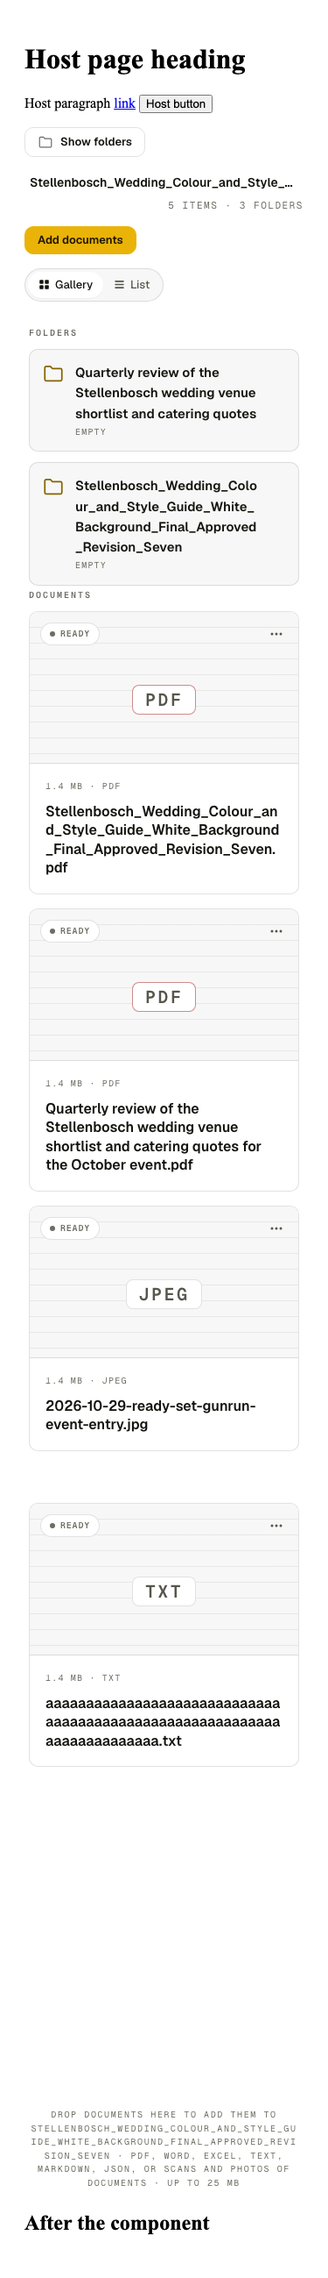
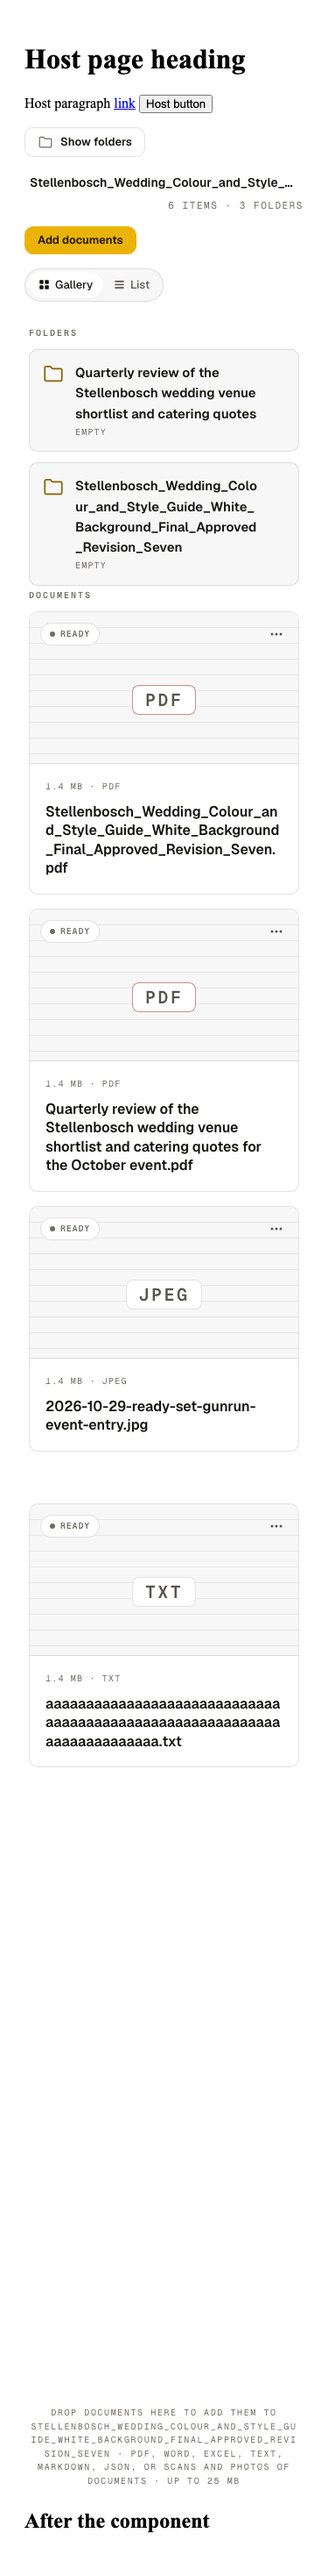
fix: long names follow Shelf web's rules; list rows are measured
Replace the clamp/ellipsis/anywhere guesses with web's own rules: break-word
without a clamp on names, min-width: 0 on containers, crumbs nowrap + ellipsis.
Deviations, each because the SDK name is a <button> (atomic inline, break-word
does not shrink it): overflow-wrap: anywhere on the card link and list name text
only; crumb ellipsis on every crumb row (web: document page only); the document
Back button ellipsizes. Wrapping list names make row heights vary, so
VirtualTable measures its rows and the anchor offset instead of assuming 57px.
Adds harness/shelf-compare.mjs (real Shelf web beside the SDK, mocked api) and
PERF_LONGNAMES=1 for perf.mjs.

diff --git a/src/styles/extras.css b/src/styles/extras.css
@@ -73,15 +73,8 @@
 .shelf-sdk .shelf-sdk__item-list-fixed th:nth-child(5) {
   width: 56px;
 }
-.shelf-sdk .shelf-sdk__item-list-fixed td {
-  overflow: hidden;
-  text-overflow: ellipsis;
-}
-.shelf-sdk .shelf-sdk__item-list-fixed .shelf-sdk__item-name-text {
-  overflow: hidden;
-  text-overflow: ellipsis;
-  white-space: nowrap;
-}
+/* Names wrap, as web's do (.item-name-text: overflow-wrap: break-word). Row heights vary, so the virtual table measures
+   its rows (VirtualTable in ShelfFolder.tsx) instead of assuming one height. */
 
 /* 0.4: the item/folder count sat on the very top edge of the header row (the aside is a flex-start item of a
    30px row), so an embed whose container has no padding clipped it by 1-2px. Centre it on the row, as the
@@ -91,82 +84,35 @@
   line-height: 1.4;
 }
 
-/* 0.4: long names. Web's `overflow-wrap: break-word` does not move a name's min-content width, and a <button> does not
-   inherit it, so an unbroken name (Some_Long_File_Name.pdf has no break opportunity) made one unbroken line that
-   widened its column and ran out of the card. Names break anywhere when they must (`anywhere`, which does count toward
-   min-content), every grid/flex item that holds one may shrink (min-width: 0), and card names stop at 3 lines so one
-   very long name cannot make every card in the row (they share one measured height) tall. Folder tiles are not
-   clamped: they are not virtualised, and a clamp box shifts their text by sub-pixels (7 pixels of the baseline PNG). */
-.shelf-sdk .shelf-sdk__file-grid > *,
-.shelf-sdk .shelf-sdk__folder-grid > *,
-.shelf-sdk .shelf-sdk__file-card,
-.shelf-sdk .shelf-sdk__folder-tile,
-.shelf-sdk .shelf-sdk__file-card-body,
-.shelf-sdk .shelf-sdk__folder-tile-main,
-.shelf-sdk .shelf-sdk__folder-tile-text {
-  min-width: 0;
-}
-.shelf-sdk .shelf-sdk__file-card-name,
+/* 0.4: long names, the same rules as Shelf web (view.css carries web's own: overflow-wrap: break-word on
+   .file-card-name / .folder-tile-name / .item-name-text, min-width: 0 on the flex/grid containers, nowrap + ellipsis
+   on .folder-tree-name). The one thing web does not need and the SDK does: web's name is an <a>, a real inline box
+   that wraps inside its block. The SDK's is a <button> (navigation stays inside the embed), which Chromium lays out
+   as an atomic inline: its width is its min-content, and `break-word` does not count toward min-content, so an
+   unbroken name stays one 800px line. `anywhere` does count, so it is set on the button's text only (card link, list name). */
 .shelf-sdk .shelf-sdk__file-card-link,
-.shelf-sdk .shelf-sdk__folder-tile-name,
-.shelf-sdk .shelf-sdk__folder-tile-main,
-.shelf-sdk .shelf-sdk__item-name-text,
-.shelf-sdk .shelf-sdk__preview-facts dd,
-.shelf-sdk .shelf-sdk__studio-actions > span,
-.shelf-sdk .shelf-sdk__sync-actions .shelf-sdk__card-meta {
-  min-width: 0;
-  max-width: 100%;
+.shelf-sdk .shelf-sdk__item-name-text {
   overflow-wrap: anywhere;
 }
-.shelf-sdk .shelf-sdk__file-card-name {
-  display: -webkit-box;
-  -webkit-box-orient: vertical;
-  -webkit-line-clamp: 3;
-  line-clamp: 3;
-  overflow: hidden;
-}
-.shelf-sdk .shelf-sdk__folder-tile-main {
-  text-align: left;
-}
-.shelf-sdk .shelf-sdk__preview-facts {
-  grid-template-columns: auto minmax(0, 1fr);
-}
-.shelf-sdk .shelf-sdk__studio-actions > span {
-  flex: 1 1 12rem;
-}
-.shelf-sdk .shelf-sdk__studio-actions .shelf-sdk__text-input {
-  min-width: 0;
-  max-width: 100%;
-}
-.shelf-sdk .shelf-sdk__sync-actions {
-  min-width: 0;
-}
-/* List rows have a fixed height (the table virtualiser does not measure them), so a name stays on one line with an
-   ellipsis. The flex name button and its text may shrink for the ellipsis to apply. */
-.shelf-sdk .shelf-sdk__item-list-fixed .shelf-sdk__item-name {
-  max-width: 100%;
-}
-.shelf-sdk .shelf-sdk__item-list-fixed .shelf-sdk__item-name > span:last-child {
-  min-width: 0;
-}
-/* Breadcrumbs: each crumb keeps to one line and ends in an ellipsis; the list wraps, so two long crumbs stack. */
+/* Breadcrumbs do not wrap a name; they ellipsize it: web's own rule (.doc-nav-row .breadcrumb, with li { display:
+   flex; min-width: 0 }), applied to every crumb row. Web applies it only on the document page; on the shelf page its
+   crumbs keep `display: inline-block` and an unbroken folder name overflows the column at 375px (seen in the real-Shelf
+   comparison, docs/screenshots/wrap-compare-crumbs-375.png). Deviation: the SDK does not leave that overflow in. */
 .shelf-sdk .shelf-sdk__breadcrumbs li {
   display: flex;
   align-items: center;
   min-width: 0;
-  max-width: 100%;
 }
 .shelf-sdk .shelf-sdk__breadcrumbs li + li::before {
   flex: none;
 }
 .shelf-sdk .shelf-sdk__breadcrumb {
-  min-width: 0;
-  max-width: 100%;
   overflow: hidden;
   text-overflow: ellipsis;
   white-space: nowrap;
 }
-/* Messages that quote a name: the drop hint ("...add them to <folder>"), upload errors, callouts, empty states. */
+/* Messages that quote a name ("Drop files to add them to <folder>", errors): block text in a definite-width column, so
+   web's own `break-word` is enough. */
 .shelf-sdk .shelf-sdk__dropzone-limits,
 .shelf-sdk .shelf-sdk__callout,
 .shelf-sdk .shelf-sdk__notice,
@@ -175,14 +121,14 @@
 .shelf-sdk .shelf-sdk__empty-title,
 .shelf-sdk .shelf-sdk__folder-tree-empty,
 .shelf-sdk .shelf-sdk__folder-tree-status {
-  min-width: 0;
-  overflow-wrap: anywhere;
+  overflow-wrap: break-word;
 }
-/* Document header: "Back to <folder>" quotes a folder name. It ends in an ellipsis instead of taking the title's column
-   (an unbroken name gave the title ~0px and one letter per line). On narrow embeds the actions drop under the title. */
-.shelf-sdk .shelf-sdk__doc-title .shelf-sdk__section-title {
-  overflow-wrap: anywhere;
+/* The preview facts' value column may shrink (min-width: 0 on a grid track, as web does on its grid containers). */
+.shelf-sdk .shelf-sdk__preview-facts {
+  grid-template-columns: auto minmax(0, 1fr);
 }
+/* Document header: "Back to <folder>" quotes a folder name. As web's crumbs do, it ends in an ellipsis instead of
+   taking the title's column (an unbroken name left the title ~0px wide). Narrow embeds drop the actions under the title. */
 .shelf-sdk .shelf-sdk__doc-actions {
   min-width: 0;
   max-width: 18rem;

diff --git a/test/names.test.tsx b/test/names.test.tsx
@@ -62,26 +62,41 @@ async function vi_waitFor<T extends Element>(get: () => T | null): Promise<T> {
   throw new Error('element never rendered');
 }
 
-describe('long names: CSS rules', () => {
-  const breaks = [
-    '.shelf-sdk__file-card-name', '.shelf-sdk__file-card-link', '.shelf-sdk__folder-tile-name', '.shelf-sdk__item-name-text',
-    '.shelf-sdk__preview-facts dd', '.shelf-sdk__studio-actions > span', '.shelf-sdk__dropzone-limits', '.shelf-sdk__callout',
-    '.shelf-sdk__sync-actions .shelf-sdk__card-meta', '.shelf-sdk__doc-title .shelf-sdk__section-title',
-  ];
-  it.each(breaks)('%s may break anywhere', (sel) => {
-    expect(decls(sel)).toMatch(/overflow-wrap:\s*anywhere/);
-  });
-  it.each(['.shelf-sdk__file-grid > *', '.shelf-sdk__folder-grid > *', '.shelf-sdk__file-card', '.shelf-sdk__folder-tile', '.shelf-sdk__file-card-body', '.shelf-sdk__folder-tile-main', '.shelf-sdk__folder-tile-text'])(
-    'grid/flex child %s can shrink', (sel) => {
-      expect(decls(sel)).toMatch(/min-width:\s*0/);
+describe('long names: CSS rules (the same ones as Shelf web)', () => {
+  // view.css is generated from web's global.css (scripts/sync-web-css.mjs), extras.css is the SDK's own.
+  const view = readFileSync(resolve(process.cwd(), 'src/styles/view.css'), 'utf8').replace(/\/\*[\s\S]*?\*\//g, '');
+  const viewDecls = (sel: string): string =>
+    [...view.matchAll(/([^{}]+)\{([^}]*)\}/g)].filter((m) => m[1]!.split(',').some((x) => x.trim() === `.shelf-sdk ${sel}`)).map((m) => m[2]).join('\n');
+  const all = (sel: string) => `${viewDecls(sel)}\n${decls(sel)}`;
+
+  it.each(['.shelf-sdk__file-card-name', '.shelf-sdk__folder-tile-name', '.shelf-sdk__item-name-text', '.shelf-sdk__doc-title .shelf-sdk__section-title', '.shelf-sdk__preview-facts dd'])(
+    'names break with overflow-wrap: break-word, as web does: %s', (sel) => {
+      expect(viewDecls(sel)).toMatch(/overflow-wrap:\s*break-word/);
     });
-  it('card names stop at 3 lines', () => {
-    expect(decls('.shelf-sdk__file-card-name')).toMatch(/-webkit-line-clamp:\s*3/);
+  it.each(['.shelf-sdk__folder-tile-main', '.shelf-sdk__folder-tile-text', '.shelf-sdk__item-name'])('flex container %s can shrink (min-width: 0)', (sel) => {
+    expect(viewDecls(sel)).toMatch(/min-width:\s*0/);
   });
-  it('crumbs and list names stay on one line with an ellipsis', () => {
-    for (const s of ['.shelf-sdk__breadcrumb', '.shelf-sdk__item-list-fixed .shelf-sdk__item-name-text']) {
-      expect(decls(s)).toMatch(/text-overflow:\s*ellipsis/);
-      expect(decls(s)).toMatch(/white-space:\s*nowrap/);
-    }
+  it('no name is clamped to a number of lines', () => {
+    expect(css).not.toMatch(/line-clamp/);
+    expect(view).not.toMatch(/line-clamp/);
+  });
+  it('the buttons that carry a name break anywhere (a button is an atomic inline: break-word does not shrink it)', () => {
+    for (const sel of ['.shelf-sdk__file-card-link', '.shelf-sdk__item-name-text']) expect(decls(sel)).toMatch(/overflow-wrap:\s*anywhere/);
+  });
+  it('list names wrap: no ellipsis or nowrap on the name cell', () => {
+    expect(decls('.shelf-sdk__item-list-fixed td')).not.toMatch(/text-overflow/);
+    expect(all('.shelf-sdk__item-name-text')).not.toMatch(/white-space:\s*nowrap/);
+  });
+  it('crumbs do not wrap a name: nowrap + ellipsis, items may shrink', () => {
+    expect(decls('.shelf-sdk__breadcrumb')).toMatch(/text-overflow:\s*ellipsis/);
+    expect(decls('.shelf-sdk__breadcrumb')).toMatch(/white-space:\s*nowrap/);
+    expect(decls('.shelf-sdk__breadcrumbs li')).toMatch(/min-width:\s*0/);
+  });
+  it('folder tree names are one line with an ellipsis', () => {
+    expect(viewDecls('.shelf-sdk__folder-tree-name')).toMatch(/text-overflow:\s*ellipsis/);
+    expect(viewDecls('.shelf-sdk__folder-tree-name')).toMatch(/white-space:\s*nowrap/);
+  });
+  it('messages that quote a name break', () => {
+    expect(decls('.shelf-sdk__dropzone-limits')).toMatch(/overflow-wrap:\s*break-word/);
   });
 });

diff --git a/src/react/ShelfFolder.tsx b/src/react/ShelfFolder.tsx
@@ -1,4 +1,4 @@
-import { lazy, Suspense, useCallback, useEffect, useMemo, useReducer, useRef, useState } from 'react';
+import { lazy, Suspense, useCallback, useEffect, useLayoutEffect, useMemo, useReducer, useRef, useState } from 'react';
 import type { ComponentType, DragEvent, ReactNode } from 'react';
 import { deepEqual } from '../cache/reconcile';
 import { createShelfClient, isAuthLost, isOfflineError, ShelfError } from '../client';
@@ -296,7 +296,38 @@ function VirtualTable({ items, folderRows, folderCount, loader, selectedId, canW
   // The scroll sentinel sits just above the table (not inside its overflow wrapper, which would be mistaken
   // for the scroller) and is nudged down past the header and folder rows, so row offsets count from the first document.
   const anchor = useRef<HTMLDivElement>(null);
-  const { rows, totalSize } = useVirtualRows({ count: items.length, rowHeight: TABLE_ROW_HEIGHT, scrollRef: anchor, onNearEnd, overscan: 6 });
+  const tbody = useRef<HTMLTableSectionElement>(null);
+  // Where the documents start below the anchor: header plus folder rows. Names wrap, so folder rows differ in height;
+  // the estimate holds until the first layout reads the real offset.
+  const [docsTop, setDocsTop] = useState(TABLE_HEAD_HEIGHT + folderCount * TABLE_ROW_HEIGHT);
+  const { rows, totalSize, measureElement } = useVirtualRows({ count: items.length, rowHeight: TABLE_ROW_HEIGHT, scrollRef: anchor, onNearEnd, overscan: 6, remeasureKey: docsTop });
+  // Document rows have varying heights (a long name wraps), so each drawn row is measured, and the table is watched
+  // for changes in the height above the documents (the header and the folder rows).
+  useLayoutEffect(() => {
+    const body = tbody.current;
+    if (!body) return;
+    const docRows = Array.from(body.children).filter((tr) => tr.getAttribute('aria-hidden') !== 'true').slice(folderCount);
+    docRows.forEach((tr, i) => {
+      const r = rows[i];
+      if (!r) return;
+      // Once per row: after that its ResizeObserver reports changes (measuring again on every render would loop).
+      if (tr.getAttribute('data-index') === String(r.index)) return;
+      tr.setAttribute('data-index', String(r.index));
+      measureElement?.(tr);
+    });
+    const first = body.children[folderCount] as HTMLElement | undefined;
+    if (first) setDocsTop((cur) => (Math.abs(cur - first.offsetTop) >= 1 ? first.offsetTop : cur));
+  });
+  useEffect(() => {
+    const table = tbody.current?.closest('table');
+    if (!table || typeof ResizeObserver === 'undefined') return;
+    const ro = new ResizeObserver(() => {
+      const first = tbody.current?.children[folderCount] as HTMLElement | undefined;
+      if (first) setDocsTop((cur) => (Math.abs(cur - first.offsetTop) >= 1 ? first.offsetTop : cur));
+    });
+    ro.observe(table);
+    return () => ro.disconnect();
+  }, [folderCount]);
   const top = rows.length ? rows[0]!.start : 0;
   const bottom = rows.length ? Math.max(0, totalSize - (rows[rows.length - 1]!.start + rows[rows.length - 1]!.size)) : totalSize;
   const spacer = (h: number, key: string) =>
@@ -307,7 +338,7 @@ function VirtualTable({ items, folderRows, folderCount, loader, selectedId, canW
     ) : null;
   return (
     <>
-      <div ref={anchor} aria-hidden="true" style={{ height: 0, position: 'relative', top: TABLE_HEAD_HEIGHT + folderCount * TABLE_ROW_HEIGHT }} />
+      <div ref={anchor} aria-hidden="true" style={{ height: 0, position: 'relative', top: docsTop }} />
       <div className={cx('item-list-scroll')}>
         <table className={cx('item-list', 'item-list-fixed')} aria-label="Folder contents">
           <thead>
@@ -321,7 +352,7 @@ function VirtualTable({ items, folderRows, folderCount, loader, selectedId, canW
               </th>
             </tr>
           </thead>
-          <tbody>
+          <tbody ref={tbody}>
             {folderRows}
             {spacer(top, 'top')}
             {rows.map((r) => {

diff --git a/src/virtual/useVirtualRows.ts b/src/virtual/useVirtualRows.ts
@@ -38,7 +38,7 @@ function listOffset(list: HTMLElement, scroller: HTMLElement | null): number {
  * its nearest overflow auto/scroll ancestor, else the window. `start` is relative to the list container.
  */
 export function useVirtualRows(opts: VirtualRowsOptions): VirtualRows {
-  const { count, rowHeight, scrollRef, overscan = 3, onNearEnd, prefetchRows } = opts;
+  const { count, rowHeight, scrollRef, overscan = 3, onNearEnd, prefetchRows, remeasureKey } = opts;
   const [scroller, setScroller] = useState<Scroller | null>(null);
 
   useLayoutEffect(() => {
@@ -48,13 +48,18 @@ export function useVirtualRows(opts: VirtualRowsOptions): VirtualRows {
     const margin = listOffset(list, el);
     setScroller((cur) => (cur && cur.el === el && cur.margin === margin ? cur : { el, margin }));
     // Re-measured when the list changes shape, not on every scroll-driven render.
-  }, [scrollRef, count, rowHeight]);
+  }, [scrollRef, count, rowHeight, remeasureKey]);
 
   const useWindow = scroller !== null && scroller.el === null;
   const margin = scroller?.margin ?? 0;
   const virt = useVirtualizer<any, Element>({
     count: scroller ? count : 0,
     estimateSize: () => rowHeight,
+    // A row with no layout box (jsdom, display: none) keeps the estimate instead of collapsing to 0 and drawing everything.
+    measureElement: (el: Element, entry: ResizeObserverEntry | undefined) => {
+      const h = entry?.borderBoxSize?.[0]?.blockSize ?? (el as HTMLElement).getBoundingClientRect().height;
+      return h > 0 ? Math.round(h) : rowHeight;
+    },
     overscan,
     scrollMargin: margin,
     getScrollElement: () => (useWindow ? (typeof window !== 'undefined' ? window : null) : (scroller?.el ?? null)),
@@ -95,6 +100,7 @@ export function useVirtualRows(opts: VirtualRowsOptions): VirtualRows {
   return {
     rows,
     totalSize,
+    measureElement: virt.measureElement,
     scrollToIndex: (index, o) => virt.scrollToIndex(index, { align: o?.align ?? 'start' }),
   };
 }

diff --git a/src/internal/contracts.ts b/src/internal/contracts.ts
@@ -298,6 +298,8 @@ export interface VirtualRowsOptions {
   /** Called when the last rendered row is within `prefetchRows` of the end, to fetch the next cursor page. */
   onNearEnd?: () => void;
   prefetchRows?: number;
+  /** Change it when the content above the list changes height, so the list re-reads where it starts. */
+  remeasureKey?: number;
 }
 
 export interface VirtualRow {
@@ -314,6 +316,11 @@ export interface VirtualRows {
   /** Full scroll height in px, so the scrollbar and layout are right before rows render. */
   totalSize: number;
   scrollToIndex(index: number, opts?: { align?: 'start' | 'center' | 'end' }): void;
+  /**
+   * For rows of varying height: pass each rendered row element (it must carry `data-index`) and its real height replaces
+   * the `rowHeight` estimate, now and whenever it resizes.
+   */
+  measureElement?(el: Element | null): void;
 }
 export type UseVirtualRowsFn = (opts: VirtualRowsOptions) => VirtualRows;
 

diff --git a/README.md b/README.md
@@ -188,6 +188,19 @@ Known differences from Shelf web's folder view, all because the integration API 
 
 Reproduce: `cd harness && npm install && npx playwright install chromium && npm run build && npm run shoot`. The harness is dev only and is not in the package.
 
+### Long names
+
+File and folder names are handled the way Shelf web handles them (rules copied from web's `global.css`; the synced `src/styles/view.css` carries them): card, folder-tile and list names use `overflow-wrap: break-word` and are never clamped, so a long name makes its card or row taller; flex and grid containers that hold a name carry `min-width: 0`; folder-tree names are one line with an ellipsis; breadcrumbs do not wrap (`nowrap` plus an ellipsis). Gallery rows are as tall as the tallest card measured so far at that width; list rows are measured one by one, so rows of different height stay correctly placed while scrolling (perf `--strict` with long names in 1 of 5 documents: CLS 0, 0 long tasks).
+
+Deliberate differences from web, each because the SDK's markup differs, not because the rule does:
+
+- The card title and the list name are `<button>`s (navigation stays inside the embed), web's are `<a>`s. A button is an atomic inline: `break-word` does not shrink it, so an unbroken name would stay one long line. `overflow-wrap: anywhere` is set on those two elements only.
+- The breadcrumb ellipsis rule web applies only on the document page is applied to every crumb row. On web's shelf page an unbroken folder name overflows the column at 375 px.
+- The document header's `Back to <folder>` button ends in an ellipsis instead of taking the title's column (web has a breadcrumb there).
+- Gallery rows share one height (the tallest card), where web's CSS grid sizes each row on its own. Web's selection checkbox and its status pill colours are not in the SDK.
+
+`docs/screenshots/wrap-compare-*.png` set web (its Vite dev server, api mocked with Playwright route interception) beside the SDK at the same grid width; `wrap-compare.txt` lists the computed-style differences. Reproduce: `cd harness && node shelf-compare.mjs` (needs a Shelf web checkout with dependencies at `../../shelf/web`, or `SHELF_WEB`). `node wrap.mjs` checks that no name overflows its container at 1280, 900 and 375 px, plain and under the hostile host stylesheet.
+
 ### Host CSS requirements
 
 None beyond importing `@pj-slf-998231/sdk/styles.css` once. Every rule sits under `.shelf-sdk` and every class is prefixed `shelf-sdk__`, so the host's element and class rules cannot match the embed and the embed never styles the host (no `:root`, `html`, `body` or bare element selectors; `npm run check:dist` fails the build if one appears). Host rules on bare elements (`h3 { font: ... }`, `li { margin: ... }`, `svg { fill: ... }`) do reach the embed's own elements, so `base.css` resets those that matter. Give it a container with a width: it fills its parent. It uses viewport media queries (720px and below stacks the layout), like Shelf web.
